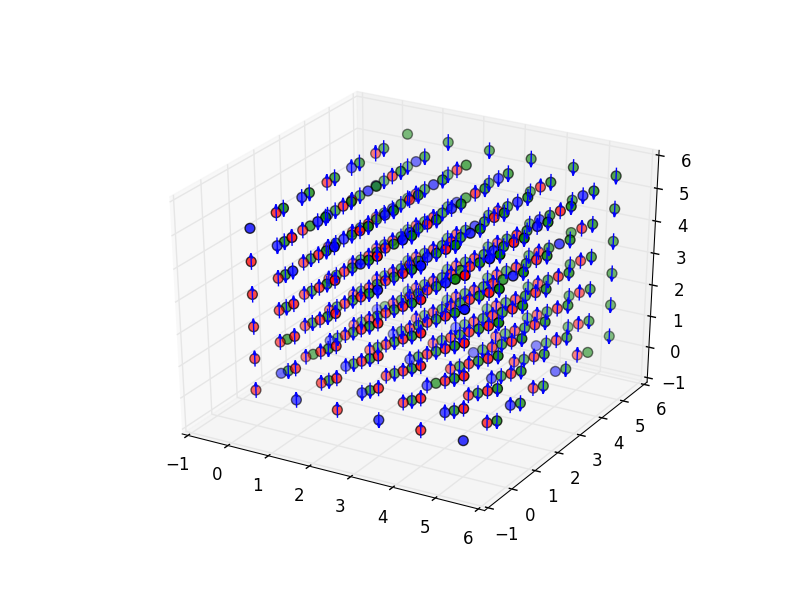
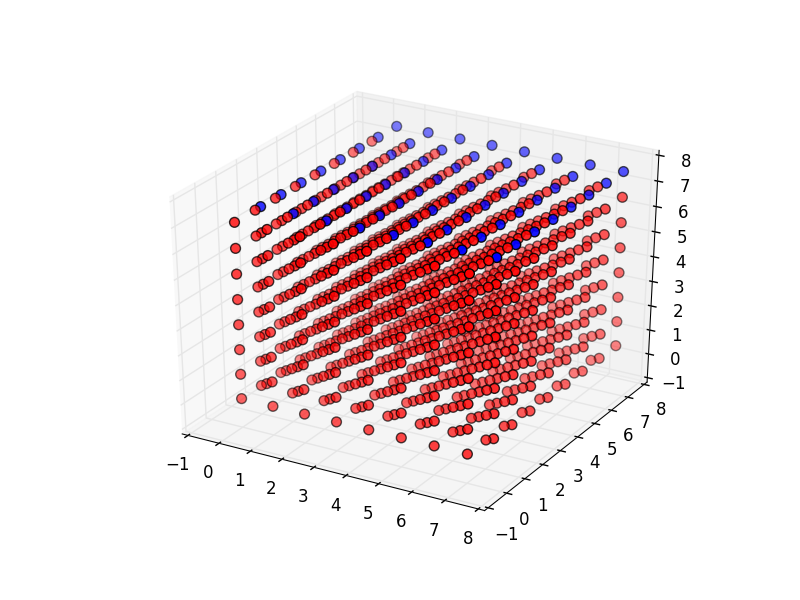
added large flip check

diff --git a/mc_functions_2.py b/mc_functions_2.py
@@ -663,3 +663,86 @@ def apply_diffusion_ghost_field(strength,Cluster_rules,J_ruels,Js):
                         if 1 not in Cluster_rules[i].neighbor_atom_list:
                             ghost_Js[i] = ghost_Js[i]+strength
     return ghost_Js
+
+def BEG_flip_test(supercell_obj,temp,Cluster_rules,J_rules,Js,flip_size):
+    Kb = .000086173324
+    x_size = supercell_obj.i_length
+    y_size = supercell_obj.j_length
+    z_size = supercell_obj.k_length
+    x_flip = x_size*flip_size
+    y_flip = y_size*flip_size
+    z_flip = z_size*flip_size
+    H_init,total_phase,total_phase2,total_spin,total_spin2 = eval_lattice_new(supercell_obj,Cluster_rules,J_rules,Js,temp)
+    for i in range(x_size):
+        for j in range(y_size):
+            for k in range(z_size):
+                if i<=x_flip and j<=y_flip and k<=z_flip:
+                    phase = supercell_obj.get_site_phase([i,j,k])
+                    if phase == 0:
+                        supercell_obj.set_site_phase([i,j,k],1)
+                    elif abs(phase) == 1:
+                        supercell_obj.set_site_phase([i,j,k],0)
+
+    # phase = supercell_obj.get_site_phase([0,0,0])
+    # if phase == 0:
+    #     supercell_obj.set_site_phase([0,0,0],1)
+    # elif abs(phase) == 1:
+    #     supercell_obj.set_site_phase([0,0,0],0)
+    #
+    # phase = supercell_obj.get_site_phase([1,0,0])
+    # if phase == 0:
+    #     supercell_obj.set_site_phase([1,0,0],1)
+    # elif abs(phase) == 1:
+    #     supercell_obj.set_site_phase([1,0,0],0)
+    # flip_3rd = True
+    # if flip_3rd == True:
+    #     phase = supercell_obj.get_site_phase([2,0,0])
+    #     if phase == 0:
+    #         supercell_obj.set_site_phase([2,0,0],1)
+    #     elif abs(phase) == 1:
+    #         supercell_obj.set_site_phase([2,0,0],0)
+
+    H_final,total_phase,total_phase2,total_spin,total_spin2 = eval_lattice_new(supercell_obj,Cluster_rules,J_rules,Js,temp)
+    ########### Check THIS!!!!!
+    prob = math.exp(-1/(Kb*temp)*(H_final-H_init))
+    ###########
+    print('\n')
+    print("initial energy: "+str(H_init))
+    print("final energy: "+str(H_final))
+    print("delta energy: "+str(H_final-H_init))
+    print('flip prob: '+str(prob))
+    fig = plt.figure(5)
+    ax = fig.add_subplot(111, projection='3d')
+    xs = []
+    ys = []
+    zs = []
+    cs = []
+    us = []
+    vs = []
+    ws = []
+    for i in range(supercell_obj.i_length):
+        for j in range(supercell_obj.j_length):
+            for k in range(supercell_obj.k_length):
+                if np.mod(k,2) == 0:
+                    offset = 0
+                else:
+                    offset = .5
+                site = [i,j,k]
+                pos = supercell_obj.get_site_pos(site)
+                xs.append(pos[0]+offset)
+                ys.append(pos[1]+offset)
+                zs.append(pos[2]*.5)
+                us.append(0)
+                vs.append(0)
+                ws.append(supercell_obj.get_site_spin(site))
+                if supercell_obj.get_site_phase(site) == 0:
+                    cs.append('r')
+                if supercell_obj.get_site_phase(site) == 1:
+                    cs.append('b')
+                if supercell_obj.get_site_phase(site) == -1:
+                    cs.append('b')
+    #ax.quiver(xs,ys,zs,us,vs,ws,pivot='middle',length=.5)
+    ax.scatter(xs,ys,zs,c=cs,marker='o',s=50)
+    plt.savefig('3D_plt.png')
+    plt.show()
+

diff --git a/main.py b/main.py
@@ -99,25 +99,29 @@ else:
 ## temp_data.write('size,Temp,passes,H_avg,mimj_avg,mag_avg,absmag_avg,phase_avg,absphase_avg\n')
 ## temp_data.close()
 
-x_pts = 6 #|
-y_pts = 6 #|- Dimensions of the mc_supercellObj (simulation supercell)
-z_pts = 12 #|
+x_pts = 8 #|
+y_pts = 8 #|- Dimensions of the mc_supercellObj (simulation supercell)
+z_pts = 16 #|
 phase_init = 'mart' # initial phase configuration
 spin_init = 'rand' # initial spin configuration
 species_init = 'rand'
 num_passes = 500 # number of cluster/wolf moves done
 num_sub_passes = 25 # number of spin/species flips done per cluster/wolf move
-Temp0 = 450 # initial temperature in K
+Temp0 = 550 # initial temperature in K
 TempF = 550 # final temperature in K
 Temp_inc = 1 # temperature increase per pass in K
 
 ## Initialize an array of atoms with ms.mc_supercellObj(size,species,composition)
 ## size is (x,y,z)dimensions, species is types of atoms allowed (0=Ni,1=Mn,2=In)
 ## composition is number of each atom (#Ni,#Mn,#In)
-lattice = ms.mc_supercellObj((x_pts,y_pts,z_pts),(0,1,2),[216,162,54],phase_init,spin_init,species_init)
-#sys.setrecursionlimit(lattice.num_sites+2)
+###################sys.setrecursionlimit(lattice.num_sites+2)
+#######lattice = ms.mc_supercellObj((x_pts,y_pts,z_pts),(0,1,2),[8,6,2],phase_init,spin_init,species_init)
+#######lattice = ms.mc_supercellObj((x_pts,y_pts,z_pts),(0,1,2),[64,48,16],phase_init,spin_init,species_init)
+#######lattice = ms.mc_supercellObj((x_pts,y_pts,z_pts),(0,1,2),[216,216,54],phase_init,spin_init,species_init)
+lattice = ms.mc_supercellObj((x_pts,y_pts,z_pts),(0,1,2),[216,384,128],phase_init,spin_init,species_init)
 ## To actually run the simulation use
 ## mc.run_montecarlo(reference_to_atom_array,number_of_passes,starting_temp, BEG_rules,Cluster_rules,J_rules,plot_figs=TRUE)
 ## BEG_rules,Cluster_rules,J_rules are objects that determine when and how the fitted parameters are applied
 print("Beginning MonteCarlo\n")
-mc2.run_WA_MCA(lattice,num_passes,num_sub_passes,Temp0,Temp_inc,TempF,Cluster_rules,J_rules,Js,do_figs=True)
+#####mc2.run_WA_MCA(lattice,num_passes,num_sub_passes,Temp0,Temp_inc,TempF,Cluster_rules,J_rules,Js,do_figs=True)
+mc2.BEG_flip_test(lattice,Temp0,Cluster_rules,J_rules,Js,.875)
